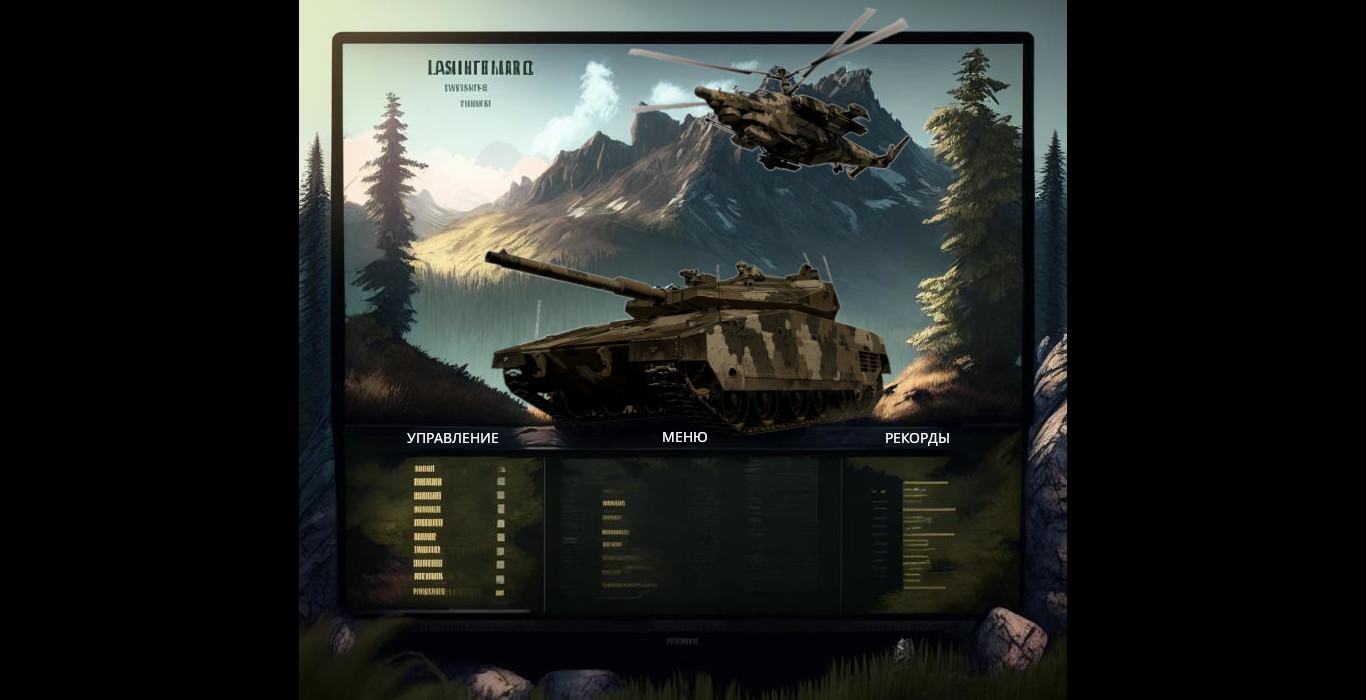
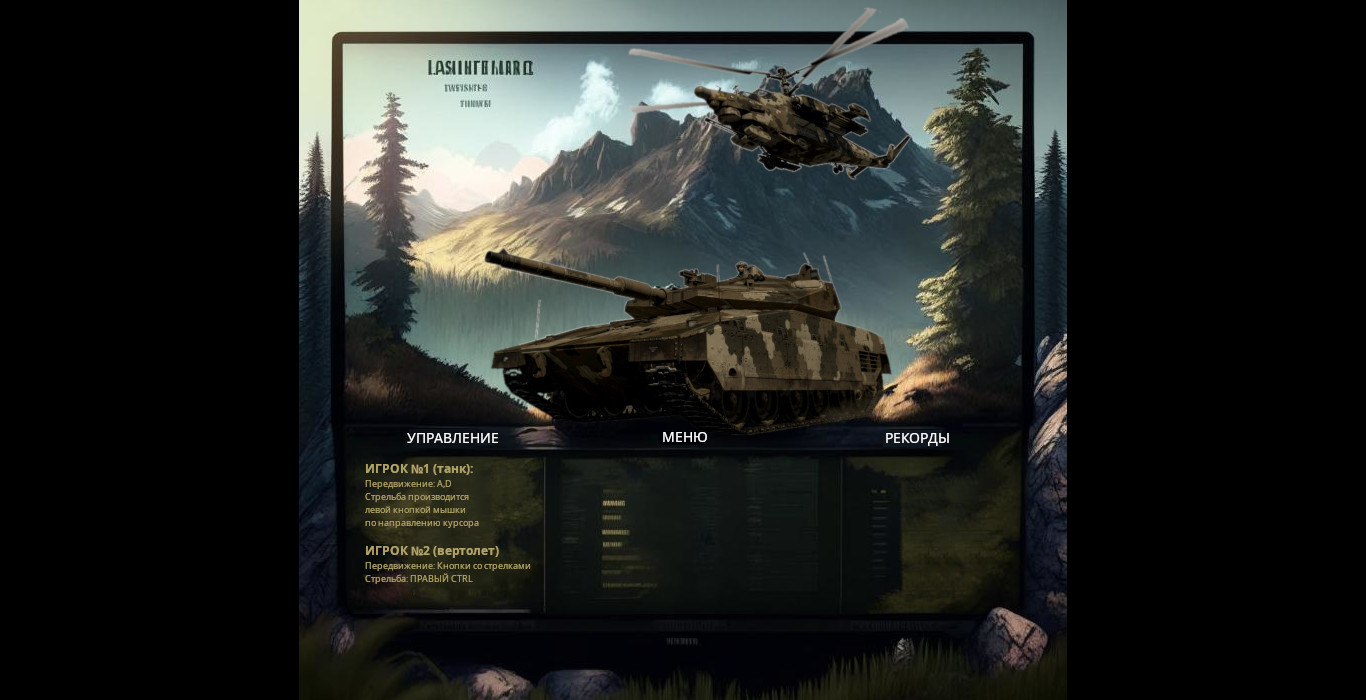
Добавил инфу по управлению в меню. Изменил картинку ракеты на квадрокоптер.

Changed region(s): [[0.246, 0.66, 0.369, 0.87], [0.6457, 0.69, 0.7072, 0.78], [0.6457, 0.81, 0.6764, 0.84]]

diff --git a/mobs.py b/mobs.py
@@ -84,6 +84,7 @@ class Bomb(pg.sprite.Sprite):
             self.kill()
 
 
-Missle.images = [load_image("data/spr_missile.png", 1)]
+# Missle.images = [load_image("data/spr_missile.png", 1)]
+Missle.images = [load_image("data/quadcopter.png")]
 Bomber.images = [img, pg.transform.flip(img, 1, 0)]
 Bomb.images = [load_image("data/bomb.gif")]
